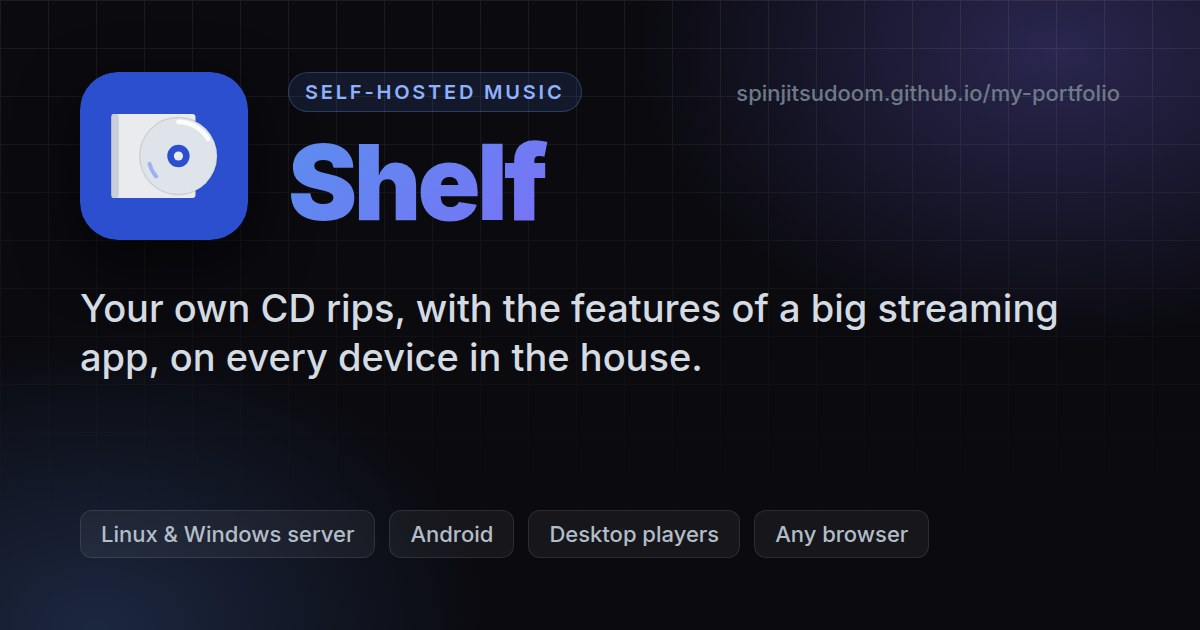
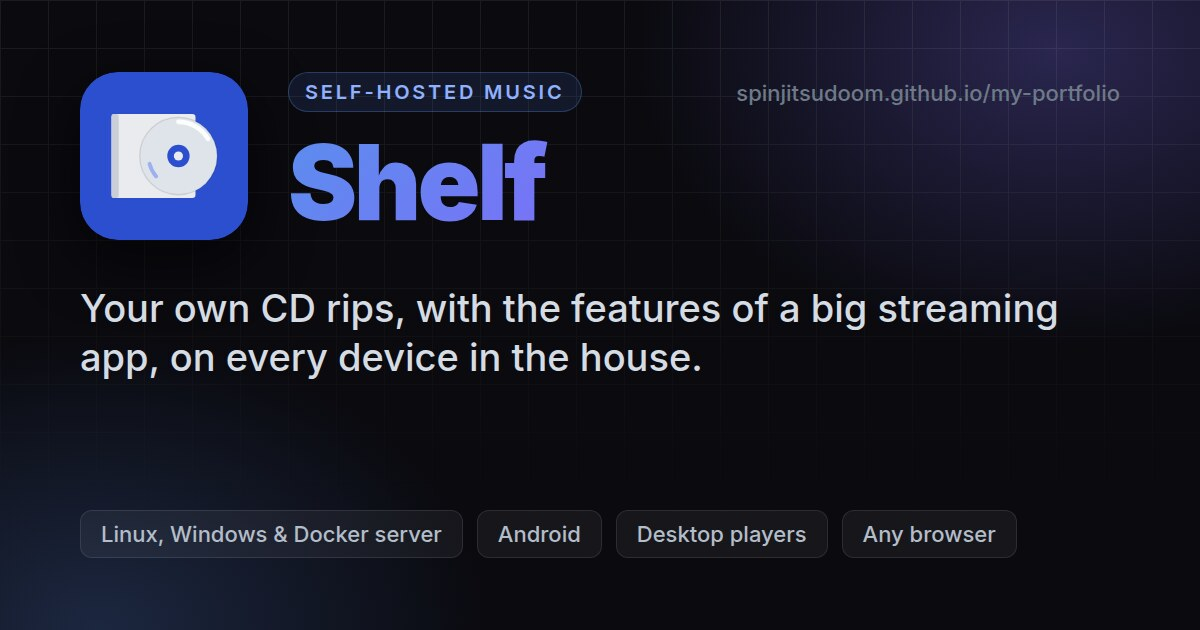
Shelf: add the Docker image, Subsonic apps and big-library speed
Adds a Docker download card (amd64 and arm64, Raspberry Pi 4/5), a
"Works with Subsonic apps" feature card, a "Quick with big libraries"
card, the reverse-proxy sign-in note, and Docker in the description,
hero pill, setup step, stack and link preview.

Changed region(s): [[0.1233, 0.8143, 0.8325, 0.8746]]

diff --git a/shelf.html b/shelf.html
@@ -3,21 +3,21 @@
 <head>
 <meta charset="UTF-8">
 <meta name="viewport" content="width=device-width, initial-scale=1.0">
-<meta name="description" content="Shelf is a free, self-hosted music server for your own CD rips, with the features of a big streaming app: mixes, lyrics, podcasts, offline downloads and DJ-style transitions. Server for Linux and Windows; players for Android, Windows, Linux and any browser.">
+<meta name="description" content="Shelf is a free, self-hosted music server for your own CD rips, with the features of a big streaming app: mixes, lyrics, podcasts, offline downloads and DJ-style transitions. Server for Linux, Windows and Docker (Raspberry Pi too); players for Android, Windows, Linux, any browser and Subsonic apps.">
 <title>Shelf — self-hosted music server and player | Etienne Axiak</title>
 <link rel="canonical" href="https://spinjitsudoom.github.io/my-portfolio/shelf.html">
 <meta name="theme-color" content="#0a0a0f">
 <meta property="og:type" content="website">
 <meta property="og:site_name" content="Etienne Axiak">
 <meta property="og:title" content="Shelf — self-hosted music server and player">
-<meta property="og:description" content="Shelf is a free, self-hosted music server for your own CD rips, with the features of a big streaming app: mixes, lyrics, podcasts, offline downloads and DJ-style transitions. Server for Linux and Windows; players for Android, Windows, Linux and any browser.">
+<meta property="og:description" content="Shelf is a free, self-hosted music server for your own CD rips, with the features of a big streaming app: mixes, lyrics, podcasts, offline downloads and DJ-style transitions. Server for Linux, Windows and Docker (Raspberry Pi too); players for Android, Windows, Linux, any browser and Subsonic apps.">
 <meta property="og:url" content="https://spinjitsudoom.github.io/my-portfolio/shelf.html">
 <meta property="og:image" content="https://spinjitsudoom.github.io/my-portfolio/og/shelf.jpg">
 <meta property="og:image:width" content="1200">
 <meta property="og:image:height" content="630">
 <meta property="og:image:alt" content="Shelf: a self-hosted music server and player">
 <meta name="twitter:card" content="summary_large_image">
-<script type="application/ld+json">{"@context": "https://schema.org", "@type": "SoftwareApplication", "name": "Shelf", "description": "Shelf is a free, self-hosted music server for your own CD rips, with the features of a big streaming app: mixes, lyrics, podcasts, offline downloads and DJ-style transitions. Server for Linux and Windows; players for Android, Windows, Linux and any browser.", "url": "https://spinjitsudoom.github.io/my-portfolio/shelf.html", "image": "https://spinjitsudoom.github.io/my-portfolio/og/shelf.jpg", "applicationCategory": "MultimediaApplication", "operatingSystem": "Linux, Windows, Android, Web browser", "softwareVersion": "1.0.12", "downloadUrl": "https://spinjitsudoom.github.io/my-portfolio/shelf.html#download", "license": "https://spdx.org/licenses/AGPL-3.0.html", "isAccessibleForFree": true, "offers": {"@type": "Offer", "price": "0", "priceCurrency": "EUR"}, "author": {"@type": "Person", "name": "Etienne Axiak", "url": "https://spinjitsudoom.github.io/my-portfolio/", "sameAs": ["https://github.com/Spinjitsudoom"]}, "sameAs": ["https://github.com/Spinjitsudoom/shelf"]}</script>
+<script type="application/ld+json">{"@context": "https://schema.org", "@type": "SoftwareApplication", "name": "Shelf", "description": "Shelf is a free, self-hosted music server for your own CD rips, with the features of a big streaming app: mixes, lyrics, podcasts, offline downloads and DJ-style transitions. Server for Linux, Windows and Docker (Raspberry Pi too); players for Android, Windows, Linux, any browser and Subsonic apps.", "url": "https://spinjitsudoom.github.io/my-portfolio/shelf.html", "image": "https://spinjitsudoom.github.io/my-portfolio/og/shelf.jpg", "applicationCategory": "MultimediaApplication", "operatingSystem": "Linux, Windows, Android, Web browser", "softwareVersion": "1.0.12", "downloadUrl": "https://spinjitsudoom.github.io/my-portfolio/shelf.html#download", "license": "https://spdx.org/licenses/AGPL-3.0.html", "isAccessibleForFree": true, "offers": {"@type": "Offer", "price": "0", "priceCurrency": "EUR"}, "author": {"@type": "Person", "name": "Etienne Axiak", "url": "https://spinjitsudoom.github.io/my-portfolio/", "sameAs": ["https://github.com/Spinjitsudoom"]}, "sameAs": ["https://github.com/Spinjitsudoom/shelf"]}</script>
 <link rel="icon" type="image/svg+xml" href="shelf-logo.svg">
 <link rel="preconnect" href="https://fonts.googleapis.com">
 <link rel="preconnect" href="https://fonts.gstatic.com" crossorigin>
@@ -464,6 +464,7 @@ nav{position:fixed;top:0;left:0;right:0;z-index:200;height:60px;display:flex;ali
 .dl-badge{display:inline-block;background:rgba(34,197,94,.1);border:1px solid rgba(34,197,94,.25);color:#4ade80;font-size:.72rem;font-weight:700;padding:.15rem .55rem;border-radius:20px;margin-bottom:.25rem}
 .dl-badge.win{background:rgba(59,130,246,.1);border-color:rgba(59,130,246,.25);color:#60a5fa}
 .dl-badge.android{background:rgba(163,230,53,.08);border-color:rgba(163,230,53,.25);color:#a3e635}
+.dl-badge.docker{background:rgba(14,165,233,.1);border-color:rgba(14,165,233,.28);color:#38bdf8}
 .dl-badge.web{background:rgba(200,200,200,.08);border-color:rgba(200,200,200,.2);color:#cbd5e1}
 .dl-card-actions{display:flex;gap:.75rem;align-items:center;flex-wrap:wrap}
 .dl-toggle{background:none;border:1px solid var(--pg-border2);color:var(--pg-fg2);border-radius:8px;padding:.45rem .9rem;font-size:.85rem;cursor:pointer;transition:color .2s,border-color .2s;font-family:inherit}
@@ -538,6 +539,7 @@ footer a{color:var(--pg-fg2)}
   <symbol id="p-disc" viewBox="0 0 24 24"><g fill="none" stroke="currentColor" stroke-width="1.8" stroke-linecap="round" stroke-linejoin="round"><circle cx="12" cy="12" r="9"/><circle cx="12" cy="12" r="2.5"/></g><path d="M12 5.5a6.5 6.5 0 0 1 6.5 6.5" fill="none" stroke="currentColor" stroke-width="1.5" stroke-linecap="round" opacity=".6"/></symbol>
   <symbol id="p-volume" viewBox="0 0 24 24"><path d="M4 9.5v5a.5.5 0 0 0 .5.5H8l4.2 3.6a.5.5 0 0 0 .8-.4V5.8a.5.5 0 0 0-.8-.4L8 9H4.5a.5.5 0 0 0-.5.5Z" fill="currentColor"/><path d="M16 8.5a5 5 0 0 1 0 7M18.5 6a8.5 8.5 0 0 1 0 12" fill="none" stroke="currentColor" stroke-width="1.8" stroke-linecap="round" stroke-linejoin="round"/></symbol>
   <symbol id="p-lock" viewBox="0 0 24 24"><g fill="none" stroke="currentColor" stroke-width="1.8" stroke-linecap="round" stroke-linejoin="round"><rect x="5" y="10.5" width="14" height="10" rx="2"/><path d="M8.5 10.5V8a3.5 3.5 0 0 1 7 0v2.5"/></g></symbol>
+  <symbol id="p-plug" viewBox="0 0 24 24" fill="none" stroke="currentColor" stroke-width="1.8" stroke-linecap="round" stroke-linejoin="round"><path d="M9 2v5M15 2v5"/><path d="M6 7h12v4a6 6 0 0 1-12 0z"/><path d="M12 17v5"/></symbol>
   <symbol id="p-server" viewBox="0 0 24 24"><g fill="none" stroke="currentColor" stroke-width="1.8" stroke-linecap="round" stroke-linejoin="round"><rect x="3.5" y="4" width="17" height="7" rx="1.5"/><rect x="3.5" y="13" width="17" height="7" rx="1.5"/></g><circle cx="7.5" cy="7.5" r="1.1" fill="currentColor"/><circle cx="7.5" cy="16.5" r="1.1" fill="currentColor"/></symbol>
   <symbol id="p-phone" viewBox="0 0 24 24"><rect x="6.5" y="2.5" width="11" height="19" rx="2.5" fill="none" stroke="currentColor" stroke-width="1.8" stroke-linecap="round" stroke-linejoin="round"/><path d="M10.5 18.5h3" fill="none" stroke="currentColor" stroke-width="1.8" stroke-linecap="round" stroke-linejoin="round"/></symbol>
   <symbol id="p-computer" viewBox="0 0 24 24"><rect x="2.5" y="4" width="19" height="12.5" rx="1.5" fill="none" stroke="currentColor" stroke-width="1.8" stroke-linecap="round" stroke-linejoin="round"/><path d="M8.5 20.5h7M12 16.5v4" fill="none" stroke="currentColor" stroke-width="1.8" stroke-linecap="round" stroke-linejoin="round"/></symbol>
@@ -581,7 +583,7 @@ footer a{color:var(--pg-fg2)}
       <a class="btn btn-secondary" href="https://github.com/Spinjitsudoom/shelf" target="_blank" rel="noopener">View Source</a>
     </div>
     <div class="hero-pills">
-      <div class="pill"><svg class="pi" aria-hidden="true"><use href="#p-server"/></svg><span>Linux &amp; Windows server</span></div>
+      <div class="pill"><svg class="pi" aria-hidden="true"><use href="#p-server"/></svg><span>Linux, Windows &amp; Docker server</span></div>
       <div class="pill"><svg class="pi" aria-hidden="true"><use href="#p-phone"/></svg><span>Android app + Android Auto</span></div>
       <div class="pill"><svg class="pi" aria-hidden="true"><use href="#p-computer"/></svg><span>Windows &amp; Linux players</span></div>
       <div class="pill"><svg class="pi" aria-hidden="true"><use href="#p-globe"/></svg><span>Any browser</span></div>
@@ -741,7 +743,12 @@ footer a{color:var(--pg-fg2)}
       <div class="feat">
         <div class="feat-icon"><svg class="pi" aria-hidden="true"><use href="#p-devices"/></svg></div>
         <h3>Your music, everywhere</h3>
-        <p>Stream to any browser (desktop, phone or TV), the native <strong>Android app</strong> with Android Auto, lock-screen controls and a home-screen widget, and desktop players for Windows and Linux with media-key support. Pick a device under <strong>Play on</strong> and the music moves there, picking up at the same spot. Apps made for <strong>Subsonic</strong>, like Symfonium, Amperfy and Feishin, can play from Shelf too.</p>
+        <p>Stream to any browser (desktop, phone or TV), the native <strong>Android app</strong> with Android Auto, lock-screen controls and a home-screen widget, and desktop players for Windows and Linux with media-key support. Pick a device under <strong>Play on</strong> and the music moves there, picking up at the same spot. On an iPhone, use a <strong>Subsonic app</strong>.</p>
+      </div>
+      <div class="feat">
+        <div class="feat-icon"><svg class="pi" aria-hidden="true"><use href="#p-plug"/></svg></div>
+        <h3>Works with Subsonic apps</h3>
+        <p>Shelf speaks the whole Subsonic API, with every OpenSubsonic addition, so apps made for Subsonic or Navidrome play from it: <strong>Symfonium</strong>, Tempo and DSub on Android, <strong>play:Sub</strong> and Substreamer on iPhone, Feishin and Sonixd on the desktop. Favourites, playlists, podcasts, share links, internet radio and the play queue are the same ones you have in Shelf, and plays count in your stats and scrobbles. Each person makes an <strong>app password</strong> or an <strong>API key</strong> for each app in Settings, so their own password never goes into an app.</p>
       </div>
       <div class="feat">
         <div class="feat-icon"><svg class="pi" aria-hidden="true"><use href="#p-people"/></svg></div>
@@ -776,7 +783,7 @@ footer a{color:var(--pg-fg2)}
       <div class="feat">
         <div class="feat-icon"><svg class="pi" aria-hidden="true"><use href="#p-update"/></svg></div>
         <h3>Keeps itself up to date</h3>
-        <p>The server <strong>installs new releases by itself at night</strong>, between 2 and 6, once nothing has played for half an hour, so music is never cut off. You can switch that off on the admin dashboard and use <strong>Update now</strong> instead. The Android app and the desktop players download updates in the background, and after each update <strong>What’s new</strong> shows what changed, once.</p>
+        <p>The server <strong>installs new releases by itself at night</strong>, between 2 and 6, once nothing has played for half an hour, so music is never cut off. You can switch that off on the admin dashboard and use <strong>Update now</strong> instead. The Android app and the desktop players download updates in the background, and after each update <strong>What’s new</strong> shows what changed, once. A Docker server updates when you pull the new image.</p>
       </div>
       <div class="feat">
         <div class="feat-icon"><svg class="pi" aria-hidden="true"><use href="#p-mix"/></svg></div>
@@ -819,6 +826,11 @@ footer a{color:var(--pg-fg2)}
         <p><strong>Library health</strong> on the admin dashboard finds albums without covers (and finds the covers), gaps in track numbers, songs that are there twice, even under another name by how they sound, and lossless files made from an MP3. The server keeps a <strong>daily backup</strong> of accounts, Favourites, playlists and history, ready to restore, and <strong>webhooks</strong> tell Home Assistant when music starts or pauses, a listen counts, or new albums arrive.</p>
       </div>
       <div class="feat">
+        <div class="feat-icon"><svg class="pi" aria-hidden="true"><use href="#p-server"/></svg></div>
+        <h3>Quick with big libraries</h3>
+        <p>On a test library of <strong>100,000 songs</strong>, a full scan takes 23 seconds, a rescan with nothing new takes 2.5, and most pages open in under a second. The day's Mixes are made ahead of time in the background. On a small computer like a <strong>Raspberry Pi</strong>, the admin can have songs measured only at night (1 to 7 a.m.) or not at all.</p>
+      </div>
+      <div class="feat">
         <div class="feat-icon"><svg class="pi" aria-hidden="true"><use href="#p-volume"/></svg></div>
         <h3>Sound settings</h3>
         <p>Gapless playback, crossfade, loudness normalization (album-aware), a 6-band equalizer with a draggable curve, balance, mono, and separate Wi-Fi and mobile streaming quality up to lossless. In the browser and the Android app, Now Playing has a <strong>visualizer</strong>: a ring of bars around the disc that moves with the music in the album's colour.</p>
@@ -826,7 +838,7 @@ footer a{color:var(--pg-fg2)}
       <div class="feat">
         <div class="feat-icon"><svg class="pi" aria-hidden="true"><use href="#p-lock"/></svg></div>
         <h3>Private by default</h3>
-        <p>Fonts and icons are served by Shelf itself. Each outside lookup (lyrics, videos, artist info, new releases) sends only artist, title and album names, and each one can be turned off in <code>config.toml</code>. Away from home, a <strong>secure address</strong> keeps sign-ins and music encrypted, and the apps move to it by themselves.</p>
+        <p>Fonts and icons are served by Shelf itself. Each outside lookup (lyrics, videos, artist info, new releases) sends only artist, title and album names, and each one can be turned off in <code>config.toml</code>. Away from home, a <strong>secure address</strong> keeps sign-ins and music encrypted, and the apps move to it by themselves. Subsonic app passwords and API keys can't change or remove accounts, so one lost with a phone can't take yours over.</p>
       </div>
     </div>
   </div>
@@ -875,6 +887,31 @@ footer a{color:var(--pg-fg2)}
             <p>1. Run <code>Shelf-Server-Setup-1.0.12.exe</code>.</p>
             <p>2. When Windows asks whether to let it on the network, <strong>allow it</strong> so your phone can reach it.</p>
             <p>3. Choose <strong>Open Shelf</strong> from the tray icon.</p>
+          </div>
+        </div>
+
+        <div class="dl-card">
+          <div>
+            <div class="dl-badge docker">Docker · PC &amp; Raspberry Pi</div>
+            <h3>Docker image</h3>
+          </div>
+          <p>For home servers, NAS boxes and a Raspberry Pi 4 or 5 (amd64 and arm64). Your music is mounted read-only, and everything Shelf keeps goes in one folder.</p>
+          <div class="dl-cb"><pre>docker run -d \
+  --name shelf \
+  --restart unless-stopped \
+  -p 4533:4533 \
+  -v ./shelf-data:/data \
+  -v /path/to/music:/music:ro \
+  -e TZ=Europe/London \
+  ghcr.io/spinjitsudoom/shelf</pre><button class="dl-cb-copy" onclick="dlCopy(this)">Copy</button></div>
+          <div class="dl-card-actions">
+            <a class="btn btn-secondary btn-sm" href="https://github.com/Spinjitsudoom/shelf/blob/main/docs/docker.md" target="_blank" rel="noopener">Docker guide</a>
+            <button class="dl-toggle" onclick="toggleInstall(this)">▼ Install guide</button>
+          </div>
+          <div class="dl-install" style="display:none">
+            <p>1. Change <code>/path/to/music</code> to your music folder, and <code>Europe/London</code> to your time zone.</p>
+            <p>2. Run the command, then open port <code>4533</code> on that computer, like <code>http://192.168.1.20:4533</code>, and create the admin account.</p>
+            <p>In Docker, Shelf doesn't update itself. The <a href="https://github.com/Spinjitsudoom/shelf/blob/main/docs/docker.md" target="_blank" rel="noopener">Docker guide</a> has a Compose file that updates with one command, plus Raspberry Pi tips and reverse proxy setups.</p>
           </div>
         </div>
 
@@ -1005,7 +1042,7 @@ bash run.sh</pre><button class="dl-cb-copy" onclick="dlCopy(this)">Copy</button>
         <div class="step-n"></div>
         <div class="step-body">
           <h3>Install the server</h3>
-          <p>Run the one-line installer on Linux or the setup program on Windows, then open <code>http://localhost:4533</code>. The first time, Shelf asks you to create the admin account. After that it keeps itself up to date, installing new versions overnight when nothing is playing.</p>
+          <p>Run the one-line installer on Linux, the setup program on Windows, or the Docker image on a home server or Raspberry Pi, then open <code>http://localhost:4533</code> (or that computer's address). The first time, Shelf asks you to create the admin account. After that the Linux and Windows servers keep themselves up to date, installing new versions overnight when nothing is playing.</p>
         </div>
       </div>
       <div class="step">
@@ -1028,6 +1065,7 @@ bash run.sh</pre><button class="dl-cb-copy" onclick="dlCopy(this)">Copy</button>
         <div class="step-body">
           <h3>Listen away from home</h3>
           <p>Don't open Shelf's port on your router. If the server's computer runs <a href="https://tailscale.com" target="_blank" rel="noopener">Tailscale</a>, <strong>Admin → Secure address</strong> gives Shelf a public HTTPS address with one button (Tailscale Funnel), or you can enter your own domain. Everyone's apps move to it by themselves, still signed in, and in the browser HTTPS also enables offline mode and home-screen install.</p>
+          <div class="note">Already run Caddy, nginx or Traefik? Put Shelf behind it. If your proxy signs people in with Authelia, Authentik or oauth2-proxy, Shelf can use that sign-in instead of asking again.</div>
         </div>
       </div>
     </div>
@@ -1045,7 +1083,7 @@ bash run.sh</pre><button class="dl-cb-copy" onclick="dlCopy(this)">Copy</button>
       <div class="stack-card"><div class="stack-layer">Audio</div><div class="stack-val">ffmpeg · Essentia (numpy on Windows) · Chromaprint · Web Audio · mutagen</div></div>
       <div class="stack-card"><div class="stack-layer">Players</div><div class="stack-val">Android (Kotlin · Compose · Media3) · Electron · Flatpak</div></div>
       <div class="stack-card"><div class="stack-layer">Metadata</div><div class="stack-val">MusicBrainz · Cover Art Archive · LRCLIB · Wikipedia · yt-dlp · podcast feeds</div></div>
-      <div class="stack-card"><div class="stack-layer">Packaging</div><div class="stack-val">PyInstaller · Inno Setup · electron-builder</div></div>
+      <div class="stack-card"><div class="stack-layer">Packaging</div><div class="stack-val">PyInstaller · Inno Setup · electron-builder · Docker (amd64 · arm64)</div></div>
       <div class="stack-card"><div class="stack-layer">CI / Builds</div><div class="stack-val">GitHub Actions on Linux &amp; Windows</div></div>
     </div>
   </div>
